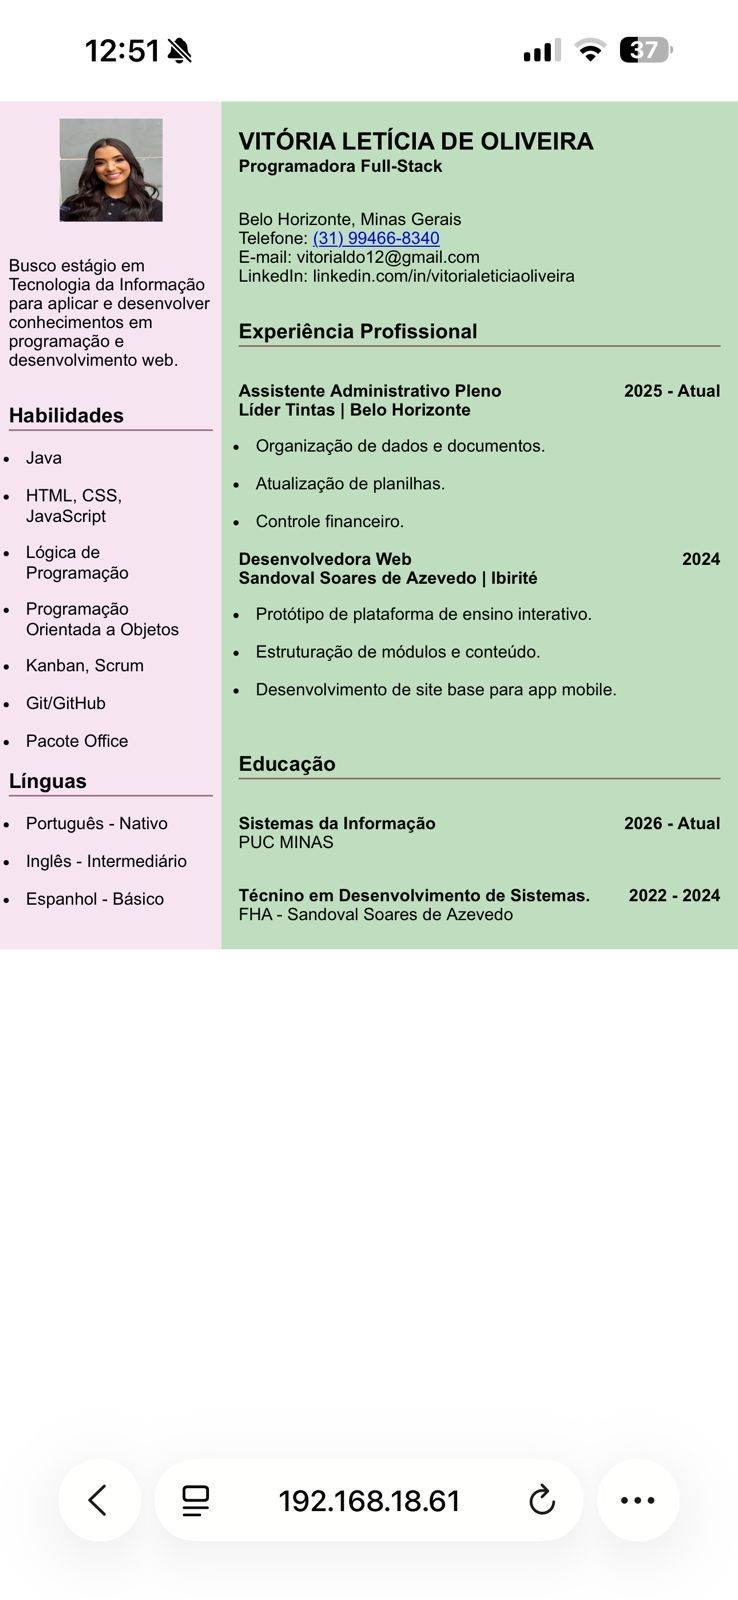
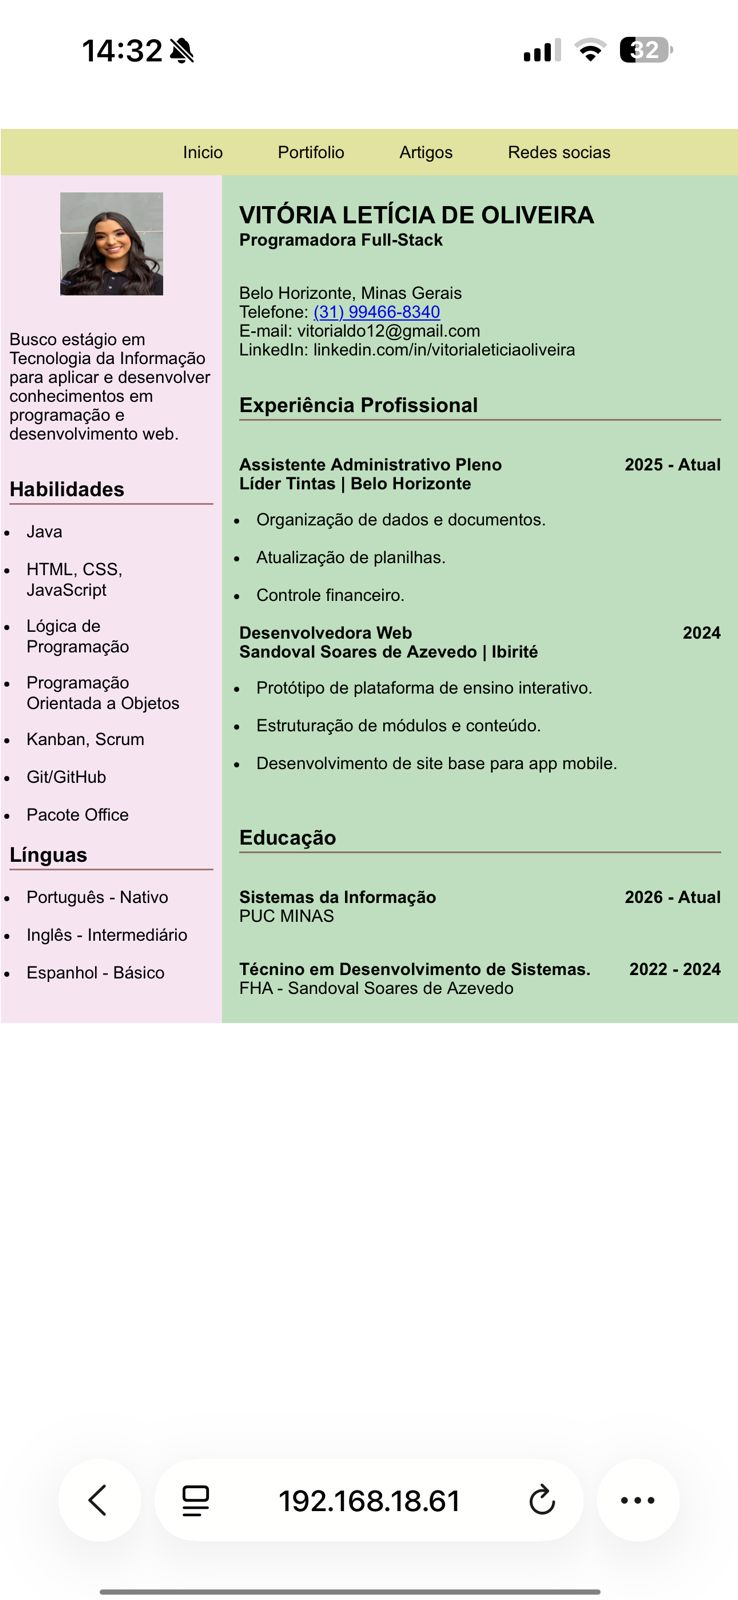
Alterações do site - matrícula: 924841

diff --git a/public/index.html b/public/index.html
@@ -8,6 +8,19 @@
 </head>
 
 <body>
+<!--Menu de navegação com links para páginas futuras-->
+    <header>
+        <div class="menu">
+            <nav class="menu-desktop">
+                <ul>
+                    <li>Inicio</li>
+                    <li>Portifolio</li>
+                    <li>Artigos</li>
+                    <li>Redes socias</li>
+                </ul>
+            </nav>
+      </div>
+    </header>
 <!-- Parte inicial, onde fica a imagem e o texto introdutório, o container serve de base para o restante da coluna.-->
     <main class="container">
         <section class="left-side">
@@ -98,6 +111,6 @@
             </section>
         </section>
     </main>
-    
 </body>
+
 </html>

diff --git a/public/header.css b/public/header.css
@@ -1,0 +1,29 @@
+
+.header {
+    border-radius: .5rem;
+    box-shadow: .4rem .3rem .3rem .03rem #eee;
+    display: flex;
+    flex-direction: column;
+    width: 15rem;
+    height: 28rem;
+}
+
+header {
+    width: 100%;
+    max-width: 1000px;
+    margin: 1rem auto 0;
+    padding: .5rem 1rem;
+    display: flex;
+    align-items: center;
+    justify-content: center;
+    background-color: #e2e2a1;
+    color: #030303;
+}
+
+header ul {
+    display: flex;
+    gap: 2rem; /* controla o espaço entre itens */
+    list-style: none;
+    padding: 0;
+    margin: 0;
+}

diff --git a/public/style.css b/public/style.css
@@ -1,3 +1,5 @@
+@import url(header.css);
+
 /*CSS geral*/
 * {
     margin: 0%;
@@ -7,6 +9,7 @@
 
 body {
     display: flex;
+    flex-direction: column;
     align-items: center;
 }
 
@@ -64,8 +67,6 @@ h2 {
     display: flex;
     justify-content: space-between;
 }
-
-
 
 /*Responsividade*/
 @media (max-width: 768px) {
